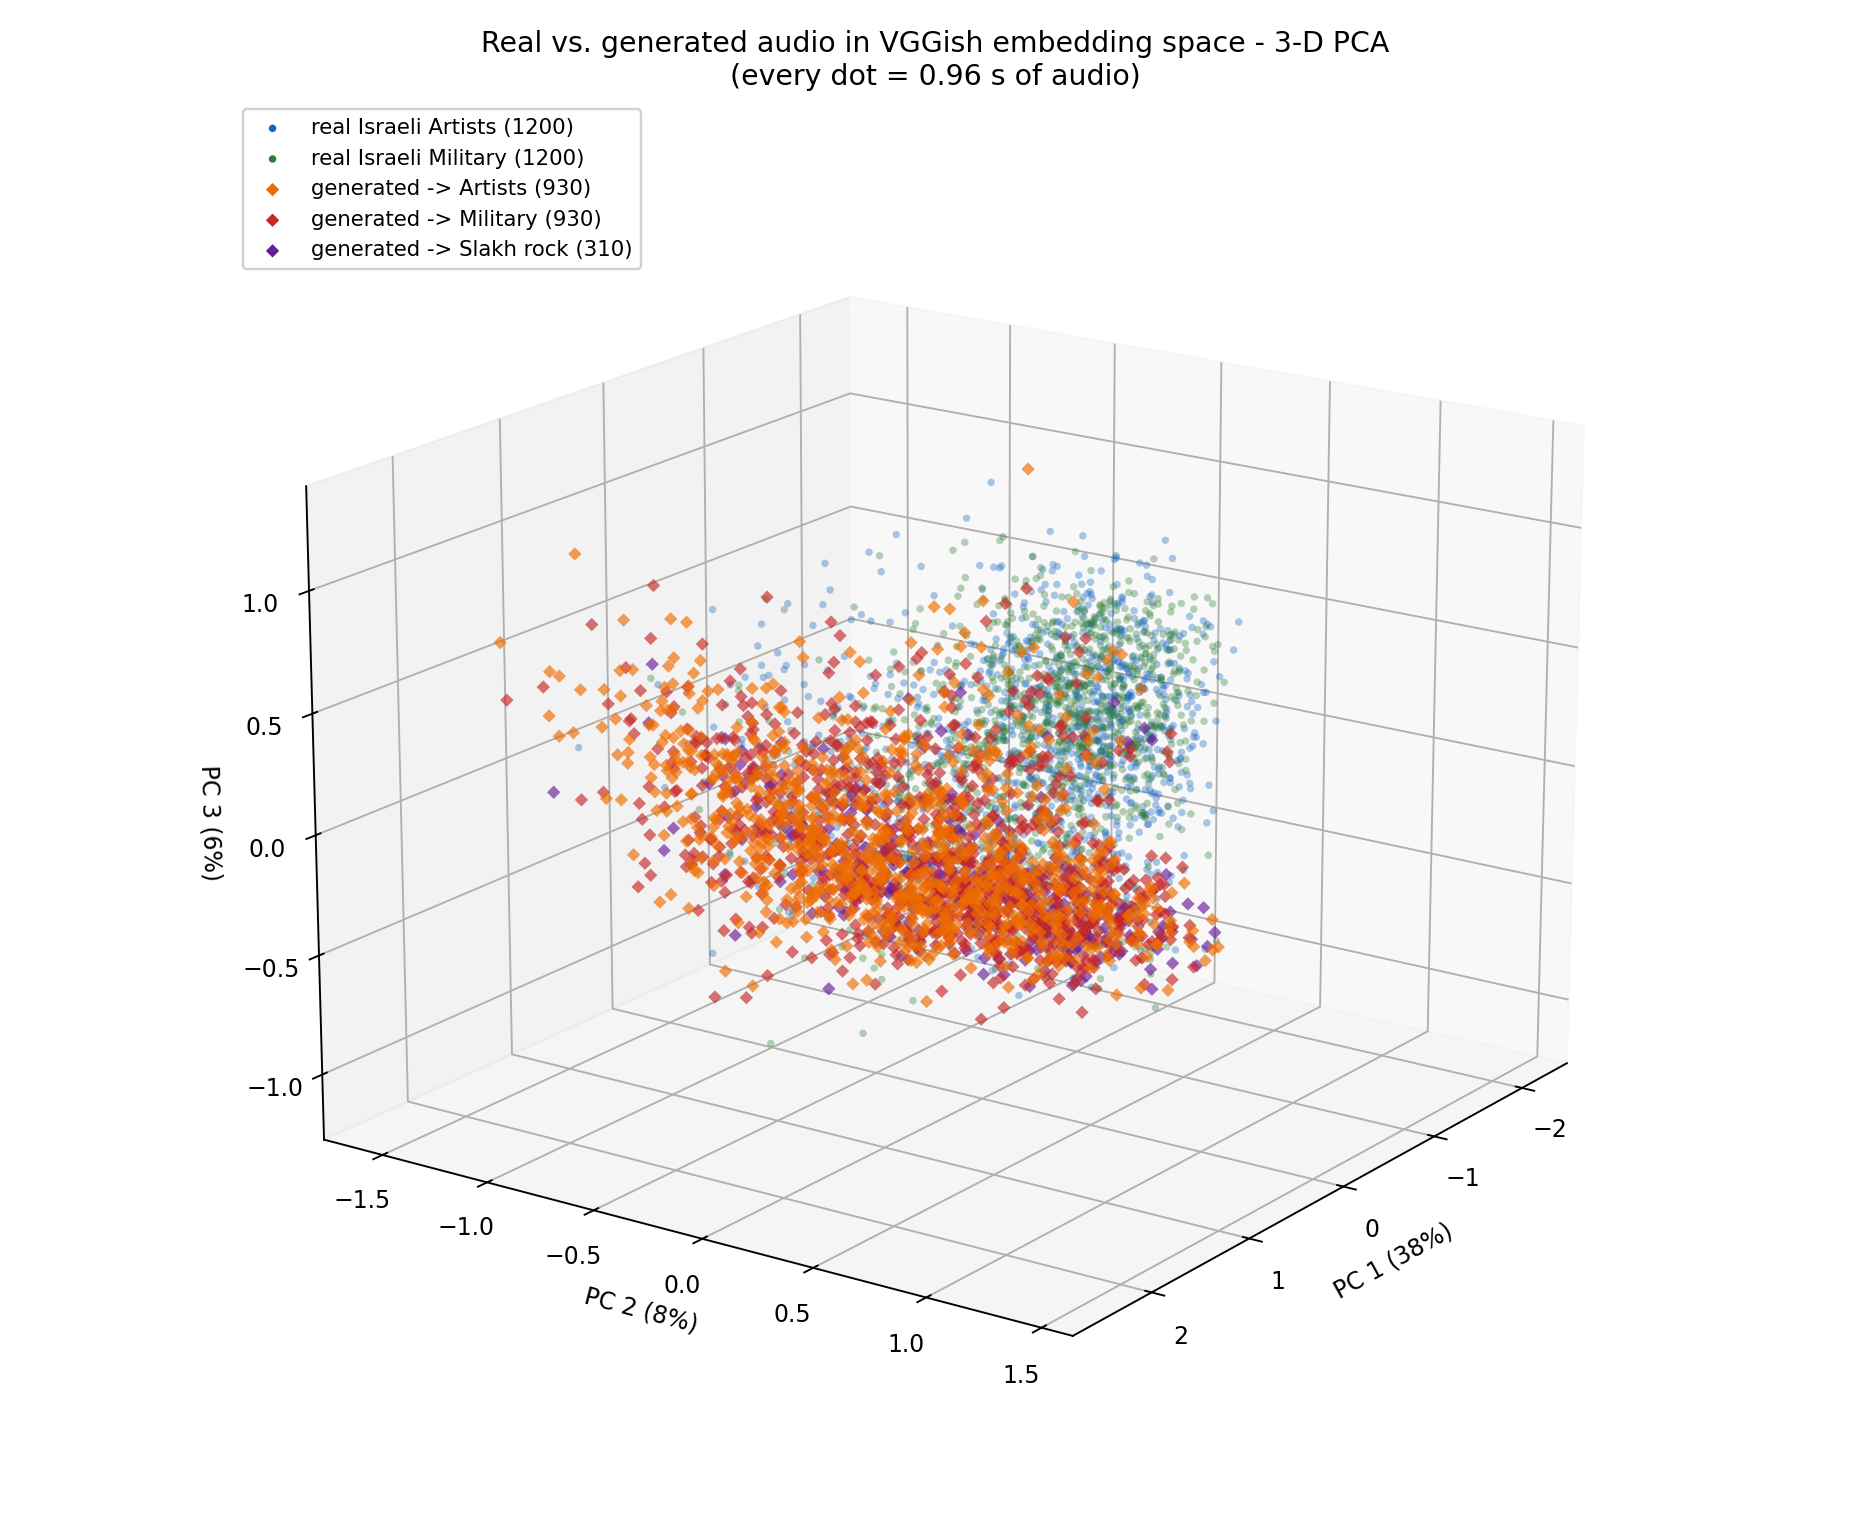
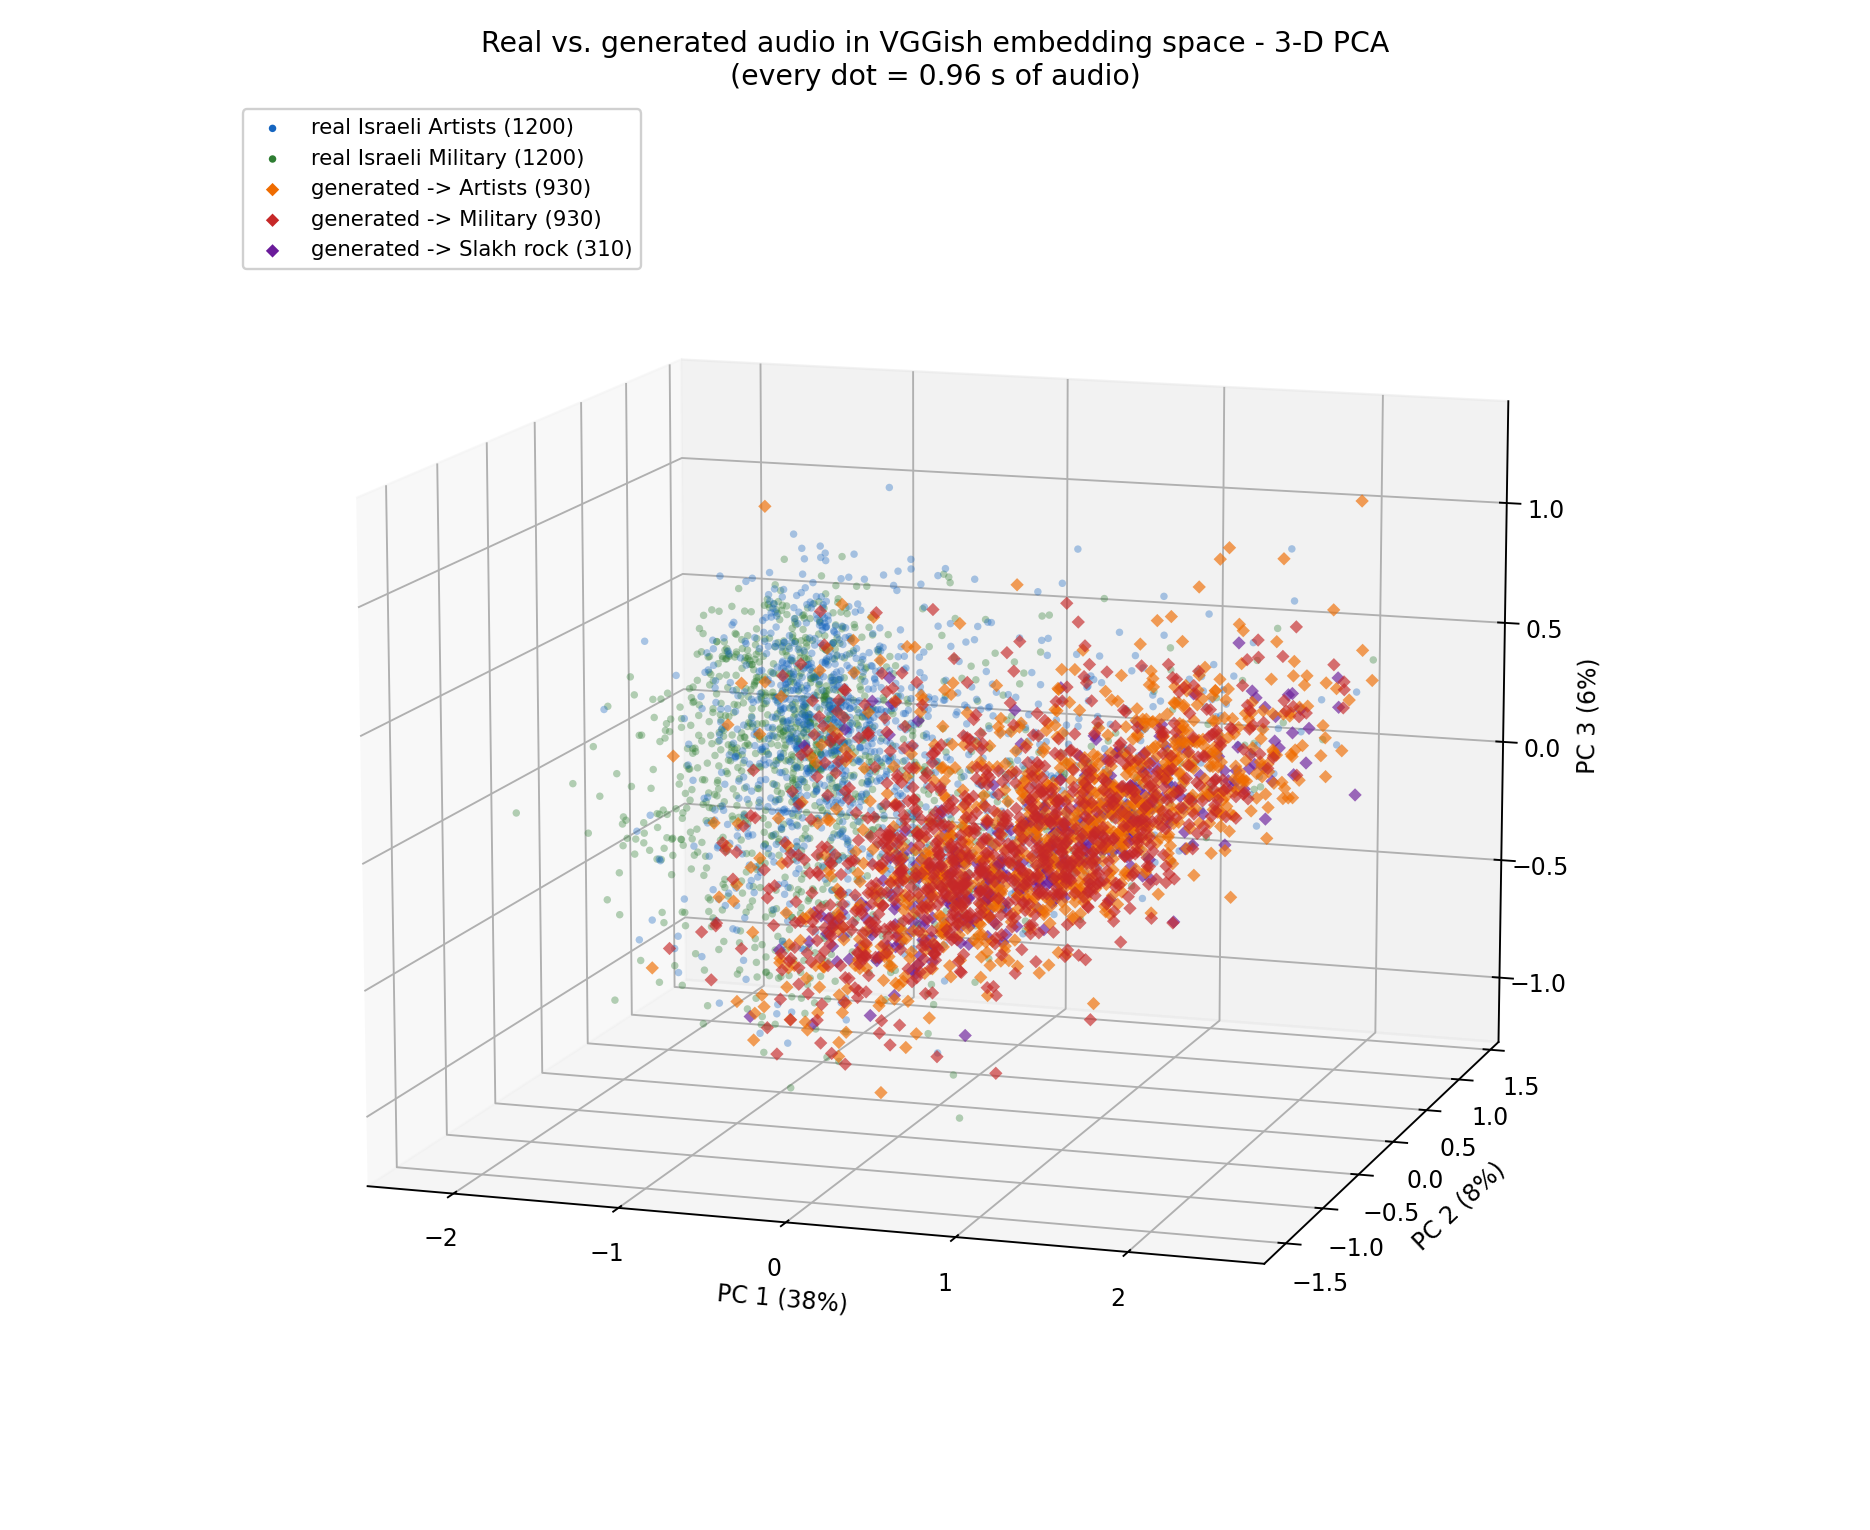
Fair A/B originals (22.05 kHz mono) + clearer 3-D cluster view angle

diff --git a/showcase/index.html b/showcase/index.html
@@ -46,7 +46,7 @@
   .dl a { color:var(--accent); text-decoration:none; }
   footer { color:var(--muted); font-size:.85rem; text-align:center; padding:30px; }
 </style></head><body>
-<header class="hero"><h1>Music Style Transfer - Project Showcase</h1><p>Score-conditioned diffusion - Israeli styles (Artists v1, Military v2) + Western rock v0</p><p>Yotam &amp; Gal</p><p class="pill">LITE preview build &middot; audio trimmed to 45s clips</p></header><nav class="toc"><strong>Jump to:</strong><a href="#overview">Overview</a><a href="#preprocessing">1. Preprocessing</a><a href="#training">2. Training</a><a href="#evaluation">3. Evaluation</a><a href="#inference">4. Inference results</a><a href="#struggles">5. Where it struggles</a><a href="MANIFEST.csv">Manifest</a></nav><main><section id="overview"><h2>0. Overview</h2><p class="lead">This project takes a Western pop or rock song and re-renders it in an Israeli musical style, while keeping the original melody and chords recognizable. In music terms we change how the song sounds - its instruments and texture - without changing what is played. The system works on mel-spectrograms, a compact picture of sound that shows which frequencies are loud over time. A diffusion model - the same family of models behind AI image generators - learns to draw the styled spectrogram from two hints: a piano-roll of the notes to keep, and a style ID that says which style to paint on top. A neural vocoder called BigVGAN then turns that spectrogram back into audio you can play. The page below follows the pipeline left to right - preprocessing, training, then results - with something to hear or see at every stage.</p><h3>Full pipeline block diagram</h3><div class="diagram"><pre class="mermaid">
+<header class="hero"><h1>Music Style Transfer - Project Showcase</h1><p>Score-conditioned diffusion - Israeli styles (Artists v1, Military v2) + Western rock v0</p><p>Yotam &amp; Gal</p></header><nav class="toc"><strong>Jump to:</strong><a href="#overview">Overview</a><a href="#preprocessing">1. Preprocessing</a><a href="#training">2. Training</a><a href="#evaluation">3. Evaluation</a><a href="#inference">4. Inference results</a><a href="#struggles">5. Where it struggles</a><a href="MANIFEST.csv">Manifest</a></nav><main><section id="overview"><h2>0. Overview</h2><p class="lead">This project takes a Western pop or rock song and re-renders it in an Israeli musical style, while keeping the original melody and chords recognizable. In music terms we change how the song sounds - its instruments and texture - without changing what is played. The system works on mel-spectrograms, a compact picture of sound that shows which frequencies are loud over time. A diffusion model - the same family of models behind AI image generators - learns to draw the styled spectrogram from two hints: a piano-roll of the notes to keep, and a style ID that says which style to paint on top. A neural vocoder called BigVGAN then turns that spectrogram back into audio you can play. The page below follows the pipeline left to right - preprocessing, training, then results - with something to hear or see at every stage.</p><h3>Full pipeline block diagram</h3><div class="diagram"><pre class="mermaid">
 flowchart LR
     URL(("Song URL"))
     PRE["Preprocessing"]
@@ -186,4 +186,4 @@ flowchart LR
     class PREP,MET,VIS custom
     class BIGVGAN oss
     class GMEL,WAV,RES data
-</pre></div><p class="dl">Download this diagram for the poster / book / slides: <a href="assets/diagrams/03_postprocessing.svg" download>SVG (vector)</a> &middot; <a href="assets/diagrams/03_postprocessing.png" download>PNG</a></p><div class="card"><h3>Dataset purity (is each style one coherent sound?)</h3><p>Before judging the model we check the data itself: were the songs we collected for each style really one coherent &quot;version&quot;? We measure every song against the rest of its own dataset with the same embedding distance used for FAD (leave-one-song-out). Result: every single song in both Israeli datasets sits below FAD 5 - the near-indistinguishable band - with medians around 1.2, so both collections are sonically coherent. A handful of songs are statistical outliers within their dataset (still below 5), which matches what we hear: a few recordings with different production. The two Israeli datasets are also close to each other (pooled distance 0.29), which explains why their two styles can sound related.</p></div><div class="card"><div class="grid"><figure><img loading="lazy" src="assets/03_evaluation/purity/purity_Israeli_Artists.png"><figcaption>purity Israeli Artists - every song of the dataset measured against the rest of its own dataset (leave-one-song-out FAD, same VGGish embedding distance as the main FAD metric). How to read: short green bars = the song sits comfortably inside its dataset&#x27;s sound; the dashed line is the standard statistical outlier fence (Q3 + 1.5 IQR); every song in both datasets is below FAD 5, the &#x27;near-indistinguishable&#x27; band - so each dataset really is one coherent style.</figcaption></figure><figure><img loading="lazy" src="assets/03_evaluation/purity/purity_Israeli_Military.png"><figcaption>purity Israeli Military - every song of the dataset measured against the rest of its own dataset (leave-one-song-out FAD, same VGGish embedding distance as the main FAD metric). How to read: short green bars = the song sits comfortably inside its dataset&#x27;s sound; the dashed line is the standard statistical outlier fence (Q3 + 1.5 IQR); every song in both datasets is below FAD 5, the &#x27;near-indistinguishable&#x27; band - so each dataset really is one coherent style.</figcaption></figure></div></div><div class="card"><h3>Frechet Audio Distance (realism)</h3><p>Frechet Audio Distance (FAD) measures how close our generated audio is to real songs in the same style - lower is better. Across the finalist checkpoints it sits around 2.2-2.5, far under our target of 9, so the output lands close to real music in each style. Shown here: one PCA scatter per style (the best checkpoint of each) and the per-style overlay of all finalists.</p></div><div class="card"><h3>How the FAD test actually works (from audio to one number)</h3><p><b>Step 1 - from sound to numbers.</b> A pre-trained network called VGGish listens to every 0.96-second window of audio and summarizes it as a list of 128 numbers (an "embedding") that captures how that moment sounds - texture, instruments, brightness. A folder of audio therefore becomes a cloud of points in a 128-dimensional space, where similar-sounding moments land near each other.</p><p><b>Step 2 - compare the two clouds.</b> We take the cloud of real songs in a style and the cloud of our generated audio for that style, fit a Gaussian to each (its center &mu; and spread &Sigma;), and compute the Fr&eacute;chet distance between the two Gaussians. That distance is the FAD score: 0 means identical distributions, and lower means the generated audio is statistically closer to the real style. Our scores of about 2.2-2.5 are far under the target of 9.</p><p><b>Step 3 - how the pictures show it (128-D &rarr; 2-D &rarr; 1-D).</b> A 128-dimensional cloud cannot be drawn, so we flatten it in two honest ways. The <i>PCA scatter</i> keeps the two directions along which the points vary the most and drops the rest - good for seeing the two clouds and their overlap. The <i>bell curves</i> go further: every point is projected onto a single line - the line connecting the real cloud's center to the generated cloud's center. This is the one direction along which the two clouds differ the <em>most</em>, so it is the most pessimistic possible 1-D view; each cloud then becomes an ordinary bell curve. If even these bells overlap heavily, the two distributions are genuinely close. In every figure the printed FAD value is computed in the full 128-D space - the pictures are only there to make it visible.</p></div><div class="card"><div class="grid"><figure><img loading="lazy" src="assets/03_evaluation/fad/fad_by_step.png"><figcaption>FAD per finalist checkpoint (grouped by style and sampler). How to read: lower bar = generated audio closer to the real style; all bars sit far below our target of 9.</figcaption></figure><figure><img loading="lazy" src="assets/03_evaluation/fad/fad_bells_overlay__overlay__Israeli_Artists.png"><figcaption>Israeli Artists - all finalist checkpoints vs. the real style, on ONE shared axis (the 128-D embeddings projected onto the line from the real mean to the generated mean). The black filled bell is real audio; each colored bell is one checkpoint. How to read: the closer a bell sits to the black one, the more realistic that checkpoint - the starred bell is the lowest (best) FAD.</figcaption></figure><figure><img loading="lazy" src="assets/03_evaluation/fad/fad_bells_overlay__overlay__Israeli_Military.png"><figcaption>Israeli Military - all finalist checkpoints vs. the real style, on ONE shared axis (the 128-D embeddings projected onto the line from the real mean to the generated mean). The black filled bell is real audio; each colored bell is one checkpoint. How to read: the closer a bell sits to the black one, the more realistic that checkpoint - the starred bell is the lowest (best) FAD.</figcaption></figure><figure><img loading="lazy" src="assets/03_evaluation/fad/fad_pca__Artists_ddim100__step_224000.png"><figcaption>Artists ddim100 / step 224000 - every dot is 0.96 s of audio mapped to a point (VGGish embedding, squashed from 128-D to the 2 directions with the most variance). Blue dots = real audio in this style, red diamonds = our generated audio; ellipses = the 2-sigma/3-sigma spread of each cloud. How to read: the more the red cloud sits inside the blue one, the more the generated audio &#x27;lives in the same space&#x27; as the real style. The FAD number printed on the plot is computed in the full 128-D space.</figcaption></figure><figure><img loading="lazy" src="assets/03_evaluation/fad/fad_pca__Military_ddim100__step_238000.png"><figcaption>Military ddim100 / step 238000 - every dot is 0.96 s of audio mapped to a point (VGGish embedding, squashed from 128-D to the 2 directions with the most variance). Blue dots = real audio in this style, red diamonds = our generated audio; ellipses = the 2-sigma/3-sigma spread of each cloud. How to read: the more the red cloud sits inside the blue one, the more the generated audio &#x27;lives in the same space&#x27; as the real style. The FAD number printed on the plot is computed in the full 128-D space.</figcaption></figure><figure><img loading="lazy" src="assets/03_evaluation/fad/clusters_3d_pca.png"><figcaption>Every sample as a dot in 3-D. We take the 128-number fingerprint of each 0.96 s of audio and keep its three biggest directions of variation (3-D PCA). Circles = real songs (blue = Israeli Artists, green = Israeli Military); diamonds = our generated audio, colored by style. How to read: the real Artists and Military circles sit in the same region (the two Israeli styles genuinely sound related), and the generated diamonds land inside/next to the real clouds with a small offset - the generated audio lives where real music lives, and FAD measures that small remaining gap as a single number. (Real Western-rock audio is not stored, so that style appears as generated-only.)</figcaption></figure></div></div><div class="card"><h3>Note-level F1 (score fidelity)</h3><p>Note-level F1 checks how many of the original notes survive the transfer. It reads low (about 3-4.5%) mainly because it compares two automatic transcriptions, both noisy, and our score tracks pitch only. We use it as a tie-breaker between checkpoints; the piano-roll overlays are the more honest view of how well the melody is kept. Shown here: one overlay per style on a held-out song.</p></div><div class="card"><h3>How to read the note-preservation (F1) figures</h3><p>F1 asks: did the notes of the original song survive the style transfer? We transcribe the original and the generated audio with the same automatic tool (Basic-Pitch), then match notes one-to-one - a match means same pitch and an onset within 50 ms. Precision = how many of our generated notes are real; recall = how many of the real notes we kept; F1 combines both. Because <em>both</em> sides pass through an imperfect transcriber (and our score tracks pitch only, not instruments), the absolute numbers come out low (3-4.5%) even when the melody is clearly preserved by ear - so we use F1 only to compare checkpoints, and the piano-roll overlay figures as the honest visual check.</p></div><div class="card"><div class="grid"><figure><img loading="lazy" src="assets/03_evaluation/f1/precision_recall_f1.png"><figcaption>Precision (of the notes we generated, how many match the reference), recall (of the reference notes, how many we reproduced) and their combination F1, per finalist. How to read: comparative tool between checkpoints - the absolute scale is deflated by transcription noise on both sides.</figcaption></figure><figure><img loading="lazy" src="assets/03_evaluation/f1/f1_vs_fad_scatter.png"><figcaption>Trade-off map: each point is one finalist checkpoint, x = FAD (realism, lower is better), y = F1 (content, higher is better). How to read: the best compromises sit toward the top-left; the dashed line marks the checkpoints no other checkpoint beats on both axes at once (the Pareto frontier).</figcaption></figure><figure><img loading="lazy" src="assets/03_evaluation/f1/f1_pianoroll__Artists_ddim100__step_224000__oof_gozal.png"><figcaption>Artists ddim100 / step 224000 / oof gozal - the honest view of content preservation: the reference notes (transcribed from the original song) and the notes transcribed from our styled output, drawn on the same piano roll (time left-to-right, pitch bottom-to-top). How to read: where the two colors overlap or line up vertically, the melody survived the transfer; isolated marks are transcription noise. Judge the alignment of the note patterns, not the exact pixel overlap.</figcaption></figure><figure><img loading="lazy" src="assets/03_evaluation/f1/f1_pianoroll__Military_ddim100__step_238000__hareut.png"><figcaption>Military ddim100 / step 238000 / hareut - the honest view of content preservation: the reference notes (transcribed from the original song) and the notes transcribed from our styled output, drawn on the same piano roll (time left-to-right, pitch bottom-to-top). How to read: where the two colors overlap or line up vertically, the melody survived the transfer; isolated marks are transcription noise. Judge the alignment of the note patterns, not the exact pixel overlap.</figcaption></figure></div></div><div class="card"><h3>Latency / real-time factor</h3><p>How fast generation runs, as a real-time factor (RTF = seconds of compute per second of audio; below 1 is faster than real-time). We measure about 0.13 at 100 sampling steps and 0.20 at 200 - roughly 5-7x faster than real-time on the GPU.</p><figure><img loading="lazy" src="assets/03_evaluation/latency/latency_by_ddim.png"><figcaption>real-time factor by ddim steps</figcaption></figure></div></section><section id="inference"><h2>4. Inference results (style transfer)</h2><p class="lead">For five songs chosen from outside the training styles, listen to the original and then the same short window re-rendered in each learned style. The notes stay fixed while the model repaints the sound. Every clip is the exact segment we picked by ear for the clearest comparison.</p><div class="card"><h3>Eminem - Lose Yourself (rap)</h3><div class="card"><h4>Original (source song)</h4><div><span class="kv">original · 00:50-01:05</span><audio controls preload="none" src="assets/04_inference_results/Eminem_Lose_Yourself/original.wav"></audio></div></div><p>Transferred versions (6) &mdash; the same 00:53-01:08 window as the original, across styles, samplers and checkpoints:</p><div class="grid"><div><span class="kv">Israeli Artists · ddim100 · step 212k</span><audio controls preload="none" src="assets/04_inference_results/Eminem_Lose_Yourself/Israeli_Artists_ddim100_step212000.wav"></audio></div><div><span class="kv">Israeli Artists · ddim100 · step 224k</span><audio controls preload="none" src="assets/04_inference_results/Eminem_Lose_Yourself/Israeli_Artists_ddim100_step224000.wav"></audio></div><div><span class="kv">Israeli Military · ddim100 · step 238k</span><audio controls preload="none" src="assets/04_inference_results/Eminem_Lose_Yourself/Israeli_Military_ddim100_step238000.wav"></audio></div><div><span class="kv">Israeli Military · ddim100 · step 242k</span><audio controls preload="none" src="assets/04_inference_results/Eminem_Lose_Yourself/Israeli_Military_ddim100_step242000.wav"></audio></div><div><span class="kv">Western rock · ddim100 · step 248k</span><audio controls preload="none" src="assets/04_inference_results/Eminem_Lose_Yourself/Slakh_v0_ddim100_step248000.wav"></audio></div><div><span class="kv">Western rock · ddim200 · step 248k</span><audio controls preload="none" src="assets/04_inference_results/Eminem_Lose_Yourself/Slakh_v0_ddim200_step248000.wav"></audio></div></div></div><div class="card"><h3>Ravid Plotnik - New Day (Israeli hip-hop)</h3><div class="card"><h4>Original (source song)</h4><div><span class="kv">original · 00:50-01:05</span><audio controls preload="none" src="assets/04_inference_results/Ravid_Plotnik_New_Day/original.wav"></audio></div></div><p>Transferred versions (6) &mdash; the same 00:55-01:10 window as the original, across styles, samplers and checkpoints:</p><div class="grid"><div><span class="kv">Israeli Artists · ddim100 · step 212k</span><audio controls preload="none" src="assets/04_inference_results/Ravid_Plotnik_New_Day/Israeli_Artists_ddim100_step212000.wav"></audio></div><div><span class="kv">Israeli Artists · ddim100 · step 224k</span><audio controls preload="none" src="assets/04_inference_results/Ravid_Plotnik_New_Day/Israeli_Artists_ddim100_step224000.wav"></audio></div><div><span class="kv">Israeli Military · ddim100 · step 238k</span><audio controls preload="none" src="assets/04_inference_results/Ravid_Plotnik_New_Day/Israeli_Military_ddim100_step238000.wav"></audio></div><div><span class="kv">Israeli Military · ddim100 · step 242k</span><audio controls preload="none" src="assets/04_inference_results/Ravid_Plotnik_New_Day/Israeli_Military_ddim100_step242000.wav"></audio></div><div><span class="kv">Western rock · ddim100 · step 248k</span><audio controls preload="none" src="assets/04_inference_results/Ravid_Plotnik_New_Day/Slakh_v0_ddim100_step248000.wav"></audio></div><div><span class="kv">Western rock · ddim200 · step 248k</span><audio controls preload="none" src="assets/04_inference_results/Ravid_Plotnik_New_Day/Slakh_v0_ddim200_step248000.wav"></audio></div></div></div></section><section id="struggles"><h2>5. Where the model struggles</h2><p class="lead">We show the weak cases on purpose. Two things go wrong. First, when the source is far from anything in our small training set &mdash; heavy metal like Metallica &mdash; the model has little to lean on, so the output is noisy and only loosely follows the song. Second, on some checkpoints you can hear the joins between the 5-second segments, or a machine-like buzz, when the generated mel is blurry and the vocoder has to fill in. These are the honest limits of training on only a few hours of hand-collected audio.</p><div class="card"><h3>Rihanna - Diamonds (pop)</h3><div class="grid"><div><span class="kv">Israeli Artists · ddim200 · step 248k</span><audio controls preload="none" src="assets/05_struggles/Rihanna_Diamonds/Israeli_Artists_ddim200_step248000.wav"></audio></div><div><span class="kv">Israeli Military · ddim100 · step 242k</span><audio controls preload="none" src="assets/05_struggles/Rihanna_Diamonds/Israeli_Military_ddim100_step242000.wav"></audio></div><div><span class="kv">Israeli Military · ddim100 · step 248k</span><audio controls preload="none" src="assets/05_struggles/Rihanna_Diamonds/Israeli_Military_ddim100_step248000.wav"></audio></div></div></div><div class="card"><h3>Metallica - Enter Sandman (metal)</h3><div class="grid"><div><span class="kv">Israeli Artists · ddim100 · step 212k</span><audio controls preload="none" src="assets/05_struggles/Metallica_Enter_Sandman/Israeli_Artists_ddim100_step212000.wav"></audio></div><div><span class="kv">Israeli Artists · ddim100 · step 224k</span><audio controls preload="none" src="assets/05_struggles/Metallica_Enter_Sandman/Israeli_Artists_ddim100_step224000.wav"></audio></div><div><span class="kv">Israeli Artists · ddim100 · step 238k</span><audio controls preload="none" src="assets/05_struggles/Metallica_Enter_Sandman/Israeli_Artists_ddim100_step238000.wav"></audio></div></div></div></section></main><footer>Portable showcase &middot; every asset under <span class="kv">assets/</span> is a real file with a relative link &middot; see MANIFEST.csv</footer><script src="vendor/mermaid.min.js"></script><script>mermaid.initialize({startOnLoad:true, theme:"neutral", securityLevel:"loose"});</script></body></html>
+</pre></div><p class="dl">Download this diagram for the poster / book / slides: <a href="assets/diagrams/03_postprocessing.svg" download>SVG (vector)</a> &middot; <a href="assets/diagrams/03_postprocessing.png" download>PNG</a></p><div class="card"><h3>Dataset purity (is each style one coherent sound?)</h3><p>Before judging the model we check the data itself: were the songs we collected for each style really one coherent &quot;version&quot;? We measure every song against the rest of its own dataset with the same embedding distance used for FAD (leave-one-song-out). Result: every single song in both Israeli datasets sits below FAD 5 - the near-indistinguishable band - with medians around 1.2, so both collections are sonically coherent. A handful of songs are statistical outliers within their dataset (still below 5), which matches what we hear: a few recordings with different production. The two Israeli datasets are also close to each other (pooled distance 0.29), which explains why their two styles can sound related.</p></div><div class="card"><div class="grid"><figure><img loading="lazy" src="assets/03_evaluation/purity/purity_Israeli_Artists.png"><figcaption>purity Israeli Artists - every song of the dataset measured against the rest of its own dataset (leave-one-song-out FAD, same VGGish embedding distance as the main FAD metric). How to read: short green bars = the song sits comfortably inside its dataset&#x27;s sound; the dashed line is the standard statistical outlier fence (Q3 + 1.5 IQR); every song in both datasets is below FAD 5, the &#x27;near-indistinguishable&#x27; band - so each dataset really is one coherent style.</figcaption></figure><figure><img loading="lazy" src="assets/03_evaluation/purity/purity_Israeli_Military.png"><figcaption>purity Israeli Military - every song of the dataset measured against the rest of its own dataset (leave-one-song-out FAD, same VGGish embedding distance as the main FAD metric). How to read: short green bars = the song sits comfortably inside its dataset&#x27;s sound; the dashed line is the standard statistical outlier fence (Q3 + 1.5 IQR); every song in both datasets is below FAD 5, the &#x27;near-indistinguishable&#x27; band - so each dataset really is one coherent style.</figcaption></figure></div></div><div class="card"><h3>Frechet Audio Distance (realism)</h3><p>Frechet Audio Distance (FAD) measures how close our generated audio is to real songs in the same style - lower is better. Across the finalist checkpoints it sits around 2.2-2.5, far under our target of 9, so the output lands close to real music in each style. Shown here: one PCA scatter per style (the best checkpoint of each) and the per-style overlay of all finalists.</p></div><div class="card"><h3>How the FAD test actually works (from audio to one number)</h3><p><b>Step 1 - from sound to numbers.</b> A pre-trained network called VGGish listens to every 0.96-second window of audio and summarizes it as a list of 128 numbers (an "embedding") that captures how that moment sounds - texture, instruments, brightness. A folder of audio therefore becomes a cloud of points in a 128-dimensional space, where similar-sounding moments land near each other.</p><p><b>Step 2 - compare the two clouds.</b> We take the cloud of real songs in a style and the cloud of our generated audio for that style, fit a Gaussian to each (its center &mu; and spread &Sigma;), and compute the Fr&eacute;chet distance between the two Gaussians. That distance is the FAD score: 0 means identical distributions, and lower means the generated audio is statistically closer to the real style. Our scores of about 2.2-2.5 are far under the target of 9.</p><p><b>Step 3 - how the pictures show it (128-D &rarr; 2-D &rarr; 1-D).</b> A 128-dimensional cloud cannot be drawn, so we flatten it in two honest ways. The <i>PCA scatter</i> keeps the two directions along which the points vary the most and drops the rest - good for seeing the two clouds and their overlap. The <i>bell curves</i> go further: every point is projected onto a single line - the line connecting the real cloud's center to the generated cloud's center. This is the one direction along which the two clouds differ the <em>most</em>, so it is the most pessimistic possible 1-D view; each cloud then becomes an ordinary bell curve. If even these bells overlap heavily, the two distributions are genuinely close. In every figure the printed FAD value is computed in the full 128-D space - the pictures are only there to make it visible.</p></div><div class="card"><div class="grid"><figure><img loading="lazy" src="assets/03_evaluation/fad/fad_by_step.png"><figcaption>FAD per finalist checkpoint (grouped by style and sampler). How to read: lower bar = generated audio closer to the real style; all bars sit far below our target of 9.</figcaption></figure><figure><img loading="lazy" src="assets/03_evaluation/fad/fad_bells_overlay__overlay__Israeli_Artists.png"><figcaption>Israeli Artists - all finalist checkpoints vs. the real style, on ONE shared axis (the 128-D embeddings projected onto the line from the real mean to the generated mean). The black filled bell is real audio; each colored bell is one checkpoint. How to read: the closer a bell sits to the black one, the more realistic that checkpoint - the starred bell is the lowest (best) FAD.</figcaption></figure><figure><img loading="lazy" src="assets/03_evaluation/fad/fad_bells_overlay__overlay__Israeli_Military.png"><figcaption>Israeli Military - all finalist checkpoints vs. the real style, on ONE shared axis (the 128-D embeddings projected onto the line from the real mean to the generated mean). The black filled bell is real audio; each colored bell is one checkpoint. How to read: the closer a bell sits to the black one, the more realistic that checkpoint - the starred bell is the lowest (best) FAD.</figcaption></figure><figure><img loading="lazy" src="assets/03_evaluation/fad/fad_pca__Artists_ddim100__step_224000.png"><figcaption>Artists ddim100 / step 224000 - every dot is 0.96 s of audio mapped to a point (VGGish embedding, squashed from 128-D to the 2 directions with the most variance). Blue dots = real audio in this style, red diamonds = our generated audio; ellipses = the 2-sigma/3-sigma spread of each cloud. How to read: the more the red cloud sits inside the blue one, the more the generated audio &#x27;lives in the same space&#x27; as the real style. The FAD number printed on the plot is computed in the full 128-D space.</figcaption></figure><figure><img loading="lazy" src="assets/03_evaluation/fad/fad_pca__Military_ddim100__step_238000.png"><figcaption>Military ddim100 / step 238000 - every dot is 0.96 s of audio mapped to a point (VGGish embedding, squashed from 128-D to the 2 directions with the most variance). Blue dots = real audio in this style, red diamonds = our generated audio; ellipses = the 2-sigma/3-sigma spread of each cloud. How to read: the more the red cloud sits inside the blue one, the more the generated audio &#x27;lives in the same space&#x27; as the real style. The FAD number printed on the plot is computed in the full 128-D space.</figcaption></figure><figure><img loading="lazy" src="assets/03_evaluation/fad/clusters_3d_pca.png"><figcaption>Every sample as a dot in 3-D. We take the 128-number fingerprint of each 0.96 s of audio and keep its three biggest directions of variation (3-D PCA). Circles = real songs (blue = Israeli Artists, green = Israeli Military); diamonds = our generated audio, colored by style. How to read: the real Artists and Military circles sit in the same region (the two Israeli styles genuinely sound related), and the generated diamonds land inside/next to the real clouds with a small offset - the generated audio lives where real music lives, and FAD measures that small remaining gap as a single number. (Real Western-rock audio is not stored, so that style appears as generated-only.)</figcaption></figure></div></div><div class="card"><h3>Note-level F1 (score fidelity)</h3><p>Note-level F1 checks how many of the original notes survive the transfer. It reads low (about 3-4.5%) mainly because it compares two automatic transcriptions, both noisy, and our score tracks pitch only. We use it as a tie-breaker between checkpoints; the piano-roll overlays are the more honest view of how well the melody is kept. Shown here: one overlay per style on a held-out song.</p></div><div class="card"><h3>How to read the note-preservation (F1) figures</h3><p>F1 asks: did the notes of the original song survive the style transfer? We transcribe the original and the generated audio with the same automatic tool (Basic-Pitch), then match notes one-to-one - a match means same pitch and an onset within 50 ms. Precision = how many of our generated notes are real; recall = how many of the real notes we kept; F1 combines both. Because <em>both</em> sides pass through an imperfect transcriber (and our score tracks pitch only, not instruments), the absolute numbers come out low (3-4.5%) even when the melody is clearly preserved by ear - so we use F1 only to compare checkpoints, and the piano-roll overlay figures as the honest visual check.</p></div><div class="card"><div class="grid"><figure><img loading="lazy" src="assets/03_evaluation/f1/precision_recall_f1.png"><figcaption>Precision (of the notes we generated, how many match the reference), recall (of the reference notes, how many we reproduced) and their combination F1, per finalist. How to read: comparative tool between checkpoints - the absolute scale is deflated by transcription noise on both sides.</figcaption></figure><figure><img loading="lazy" src="assets/03_evaluation/f1/f1_vs_fad_scatter.png"><figcaption>Trade-off map: each point is one finalist checkpoint, x = FAD (realism, lower is better), y = F1 (content, higher is better). How to read: the best compromises sit toward the top-left; the dashed line marks the checkpoints no other checkpoint beats on both axes at once (the Pareto frontier).</figcaption></figure><figure><img loading="lazy" src="assets/03_evaluation/f1/f1_pianoroll__Artists_ddim100__step_224000__oof_gozal.png"><figcaption>Artists ddim100 / step 224000 / oof gozal - the honest view of content preservation: the reference notes (transcribed from the original song) and the notes transcribed from our styled output, drawn on the same piano roll (time left-to-right, pitch bottom-to-top). How to read: where the two colors overlap or line up vertically, the melody survived the transfer; isolated marks are transcription noise. Judge the alignment of the note patterns, not the exact pixel overlap.</figcaption></figure><figure><img loading="lazy" src="assets/03_evaluation/f1/f1_pianoroll__Military_ddim100__step_238000__hareut.png"><figcaption>Military ddim100 / step 238000 / hareut - the honest view of content preservation: the reference notes (transcribed from the original song) and the notes transcribed from our styled output, drawn on the same piano roll (time left-to-right, pitch bottom-to-top). How to read: where the two colors overlap or line up vertically, the melody survived the transfer; isolated marks are transcription noise. Judge the alignment of the note patterns, not the exact pixel overlap.</figcaption></figure></div></div><div class="card"><h3>Latency / real-time factor</h3><p>How fast generation runs, as a real-time factor (RTF = seconds of compute per second of audio; below 1 is faster than real-time). We measure about 0.13 at 100 sampling steps and 0.20 at 200 - roughly 5-7x faster than real-time on the GPU.</p><figure><img loading="lazy" src="assets/03_evaluation/latency/latency_by_ddim.png"><figcaption>real-time factor by ddim steps</figcaption></figure></div></section><section id="inference"><h2>4. Inference results (style transfer)</h2><p class="lead">For five songs chosen from outside the training styles, listen to the original and then the same short window re-rendered in each learned style. The notes stay fixed while the model repaints the sound. Every clip is the exact segment we picked by ear for the clearest comparison. The original is presented at the same 22.05 kHz mono the preprocessing uses &mdash; the fidelity ceiling the model works within &mdash; so the only audible difference you judge is the style, not the recording quality.</p><div class="card"><h3>Eminem - Lose Yourself (rap)</h3><div class="card"><h4>Original (source song, 22.05 kHz mono)</h4><div><span class="kv">original · 00:50-01:05</span><audio controls preload="none" src="assets/04_inference_results/Eminem_Lose_Yourself/original.wav"></audio></div></div><p>Transferred versions (6) &mdash; the same 00:53-01:08 window as the original, across styles, samplers and checkpoints:</p><div class="grid"><div><span class="kv">Israeli Artists · ddim100 · step 212k</span><audio controls preload="none" src="assets/04_inference_results/Eminem_Lose_Yourself/Israeli_Artists_ddim100_step212000.wav"></audio></div><div><span class="kv">Israeli Artists · ddim100 · step 224k</span><audio controls preload="none" src="assets/04_inference_results/Eminem_Lose_Yourself/Israeli_Artists_ddim100_step224000.wav"></audio></div><div><span class="kv">Israeli Military · ddim100 · step 238k</span><audio controls preload="none" src="assets/04_inference_results/Eminem_Lose_Yourself/Israeli_Military_ddim100_step238000.wav"></audio></div><div><span class="kv">Israeli Military · ddim100 · step 242k</span><audio controls preload="none" src="assets/04_inference_results/Eminem_Lose_Yourself/Israeli_Military_ddim100_step242000.wav"></audio></div><div><span class="kv">Western rock · ddim100 · step 248k</span><audio controls preload="none" src="assets/04_inference_results/Eminem_Lose_Yourself/Slakh_v0_ddim100_step248000.wav"></audio></div><div><span class="kv">Western rock · ddim200 · step 248k</span><audio controls preload="none" src="assets/04_inference_results/Eminem_Lose_Yourself/Slakh_v0_ddim200_step248000.wav"></audio></div></div></div><div class="card"><h3>Ravid Plotnik - New Day (Israeli hip-hop)</h3><div class="card"><h4>Original (source song, 22.05 kHz mono)</h4><div><span class="kv">original · 00:50-01:05</span><audio controls preload="none" src="assets/04_inference_results/Ravid_Plotnik_New_Day/original.wav"></audio></div></div><p>Transferred versions (6) &mdash; the same 00:55-01:10 window as the original, across styles, samplers and checkpoints:</p><div class="grid"><div><span class="kv">Israeli Artists · ddim100 · step 212k</span><audio controls preload="none" src="assets/04_inference_results/Ravid_Plotnik_New_Day/Israeli_Artists_ddim100_step212000.wav"></audio></div><div><span class="kv">Israeli Artists · ddim100 · step 224k</span><audio controls preload="none" src="assets/04_inference_results/Ravid_Plotnik_New_Day/Israeli_Artists_ddim100_step224000.wav"></audio></div><div><span class="kv">Israeli Military · ddim100 · step 238k</span><audio controls preload="none" src="assets/04_inference_results/Ravid_Plotnik_New_Day/Israeli_Military_ddim100_step238000.wav"></audio></div><div><span class="kv">Israeli Military · ddim100 · step 242k</span><audio controls preload="none" src="assets/04_inference_results/Ravid_Plotnik_New_Day/Israeli_Military_ddim100_step242000.wav"></audio></div><div><span class="kv">Western rock · ddim100 · step 248k</span><audio controls preload="none" src="assets/04_inference_results/Ravid_Plotnik_New_Day/Slakh_v0_ddim100_step248000.wav"></audio></div><div><span class="kv">Western rock · ddim200 · step 248k</span><audio controls preload="none" src="assets/04_inference_results/Ravid_Plotnik_New_Day/Slakh_v0_ddim200_step248000.wav"></audio></div></div></div></section><section id="struggles"><h2>5. Where the model struggles</h2><p class="lead">We show the weak cases on purpose. Two things go wrong. First, when the source is far from anything in our small training set &mdash; heavy metal like Metallica &mdash; the model has little to lean on, so the output is noisy and only loosely follows the song. Second, on some checkpoints you can hear the joins between the 5-second segments, or a machine-like buzz, when the generated mel is blurry and the vocoder has to fill in. These are the honest limits of training on only a few hours of hand-collected audio.</p><div class="card"><h3>Rihanna - Diamonds (pop)</h3><div class="grid"><div><span class="kv">Israeli Artists · ddim200 · step 248k</span><audio controls preload="none" src="assets/05_struggles/Rihanna_Diamonds/Israeli_Artists_ddim200_step248000.wav"></audio></div><div><span class="kv">Israeli Military · ddim100 · step 242k</span><audio controls preload="none" src="assets/05_struggles/Rihanna_Diamonds/Israeli_Military_ddim100_step242000.wav"></audio></div><div><span class="kv">Israeli Military · ddim100 · step 248k</span><audio controls preload="none" src="assets/05_struggles/Rihanna_Diamonds/Israeli_Military_ddim100_step248000.wav"></audio></div></div></div><div class="card"><h3>Metallica - Enter Sandman (metal)</h3><div class="grid"><div><span class="kv">Israeli Artists · ddim100 · step 212k</span><audio controls preload="none" src="assets/05_struggles/Metallica_Enter_Sandman/Israeli_Artists_ddim100_step212000.wav"></audio></div><div><span class="kv">Israeli Artists · ddim100 · step 224k</span><audio controls preload="none" src="assets/05_struggles/Metallica_Enter_Sandman/Israeli_Artists_ddim100_step224000.wav"></audio></div><div><span class="kv">Israeli Artists · ddim100 · step 238k</span><audio controls preload="none" src="assets/05_struggles/Metallica_Enter_Sandman/Israeli_Artists_ddim100_step238000.wav"></audio></div></div></div></section></main><footer>Portable showcase &middot; every asset under <span class="kv">assets/</span> is a real file with a relative link &middot; see MANIFEST.csv</footer><script src="vendor/mermaid.min.js"></script><script>mermaid.initialize({startOnLoad:true, theme:"neutral", securityLevel:"loose"});</script></body></html>

diff --git a/build_showcase.py b/build_showcase.py
@@ -323,6 +323,31 @@ def _copy_audio(src: Path, dest: Path, lite: bool = False,
         return _copy(src, dest)
 
 
+def _copy_audio_pipeline_fidelity(src: Path, dest: Path) -> Optional[Path]:
+    """Copy an ``original`` A/B clip at the pipeline's fidelity ceiling.
+
+    The model only ever sees 22.05 kHz mono mels, so its output is bounded to
+    that fidelity. Presenting the source song as a pristine 44.1 kHz stereo
+    file makes the original-vs-transferred comparison unfair (it sounds better
+    for reasons the model can never match). We therefore down-convert the
+    original to the same 22.05 kHz mono the preprocessing uses, so the only
+    audible difference is the style, not the audio quality.
+    """
+    if not src or not src.exists() or not src.is_file():
+        return _copy(src, dest)
+    try:
+        import librosa
+        import numpy as np
+        import soundfile as sf
+        y, _ = librosa.load(str(src), sr=MEL_SR, mono=True)
+        dest.parent.mkdir(parents=True, exist_ok=True)
+        sf.write(str(dest), np.asarray(y, dtype="float32"), MEL_SR)
+        return dest
+    except Exception as e:
+        print(f"    [fidelity] resample failed on {src.name} ({e}); copying full")
+        return _copy(src, dest)
+
+
 def _rel(path: Path, root: Path) -> str:
     """POSIX relative path of ``path`` under ``root`` (for portable href/src)."""
     return path.relative_to(root).as_posix()
@@ -1673,10 +1698,12 @@ def build_inference(cfg: dict, out_root: Path, assets_root: Path,
 
         orig_block = ""
         for r in buckets["original"]:
-            copied = _copy(curated_dir / r["rel_path"], dest / "original.wav")
+            copied = _copy_audio_pipeline_fidelity(
+                curated_dir / r["rel_path"], dest / "original.wav")
             if copied:
                 rel = _rel(copied, out_root)
-                orig_block = ('<div class="card"><h4>Original (source song)</h4>'
+                orig_block = ('<div class="card"><h4>Original (source song, '
+                              '22.05 kHz mono)</h4>'
                               + _audio(rel, "original \u00b7 " + r["window"]) + "</div>")
                 man.add(stage="04_inference_results", rel_path=rel, kind="audio",
                         title=f"{song} - original", caption="A/B reference",
@@ -1722,7 +1749,10 @@ def build_inference(cfg: dict, out_root: Path, assets_root: Path,
         'listen to the original and then the same short window re-rendered in each '
         'learned style. The notes stay fixed while the model repaints the sound. '
         'Every clip is the exact segment we picked by ear for the clearest '
-        'comparison.</p>'
+        'comparison. The original is presented at the same 22.05 kHz mono the '
+        'preprocessing uses &mdash; the fidelity ceiling the model works within '
+        '&mdash; so the only audible difference you judge is the style, not the '
+        'recording quality.</p>'
         + "".join(cards)
         + "</section>")
 

diff --git a/postprocessing/embedding_cluster_viz.py b/postprocessing/embedding_cluster_viz.py
@@ -137,7 +137,9 @@ def _plot_3d(coords: Dict[str, np.ndarray], explained, out_png: Path) -> None:
     leg = ax.legend(loc="upper left", fontsize=9, framealpha=0.92)
     for h in leg.legend_handles:
         h.set_alpha(1.0)
-    ax.view_init(elev=18, azim=35)
+    # Look roughly along PC2 so PC1 (the axis that carries the real-vs-generated
+    # separation, ~38% of variance) runs left-to-right and faces the viewer.
+    ax.view_init(elev=12, azim=-72)
     fig.tight_layout()
     out_png.parent.mkdir(parents=True, exist_ok=True)
     fig.savefig(out_png, dpi=170)